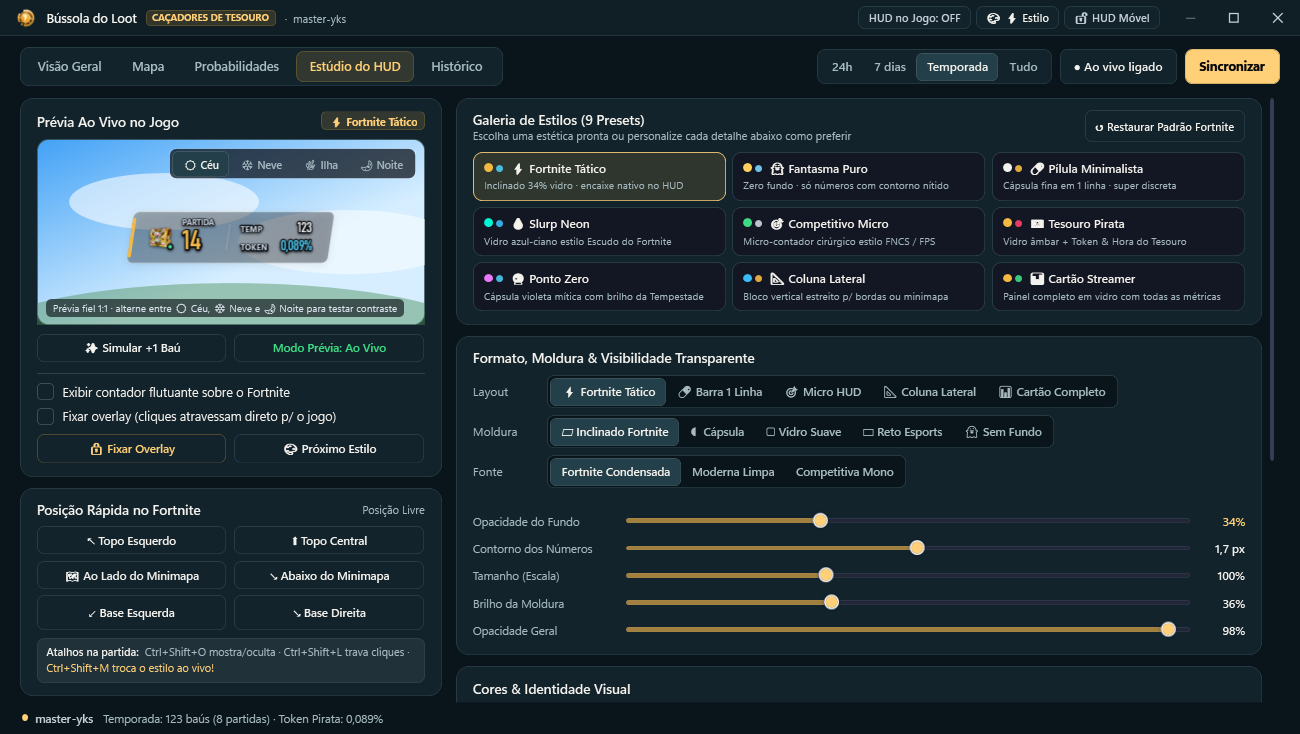
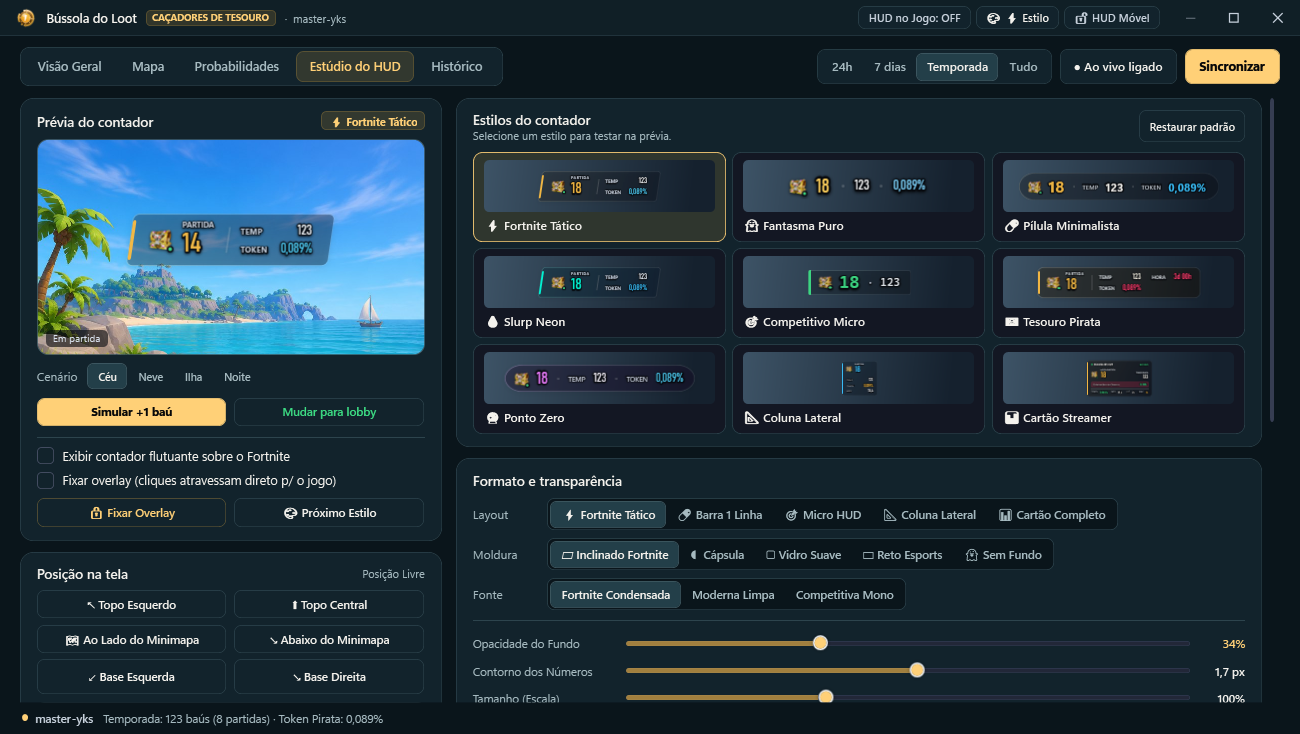
Mostra os estilos do HUD em miniatura e em quatro cenários 3D

diff --git a/src/ChestCounter.Gui/MainWindow.xaml b/src/ChestCounter.Gui/MainWindow.xaml
@@ -864,46 +864,41 @@
                                                 BorderThickness="1" CornerRadius="5" Padding="7,2" VerticalAlignment="Center">
                                             <TextBlock x:Name="OverlayActivePresetBadgeText" Text="⚡ Fortnite Tático" Foreground="{StaticResource Gold}" FontSize="10.5" FontWeight="Bold"/>
                                         </Border>
-                                        <TextBlock Text="Prévia Ao Vivo no Jogo" Style="{StaticResource SectionTitle}" VerticalAlignment="Center"/>
+                                        <TextBlock Text="Prévia do contador" Style="{StaticResource SectionTitle}" VerticalAlignment="Center"/>
                                     </DockPanel>
 
                                     <!-- Simulated Game Scene Viewport -->
-                                    <Border x:Name="PreviewViewportBorder" Height="186" CornerRadius="11" BorderBrush="{StaticResource StrokeLit}" BorderThickness="1" ClipToBounds="True">
+                                    <Border x:Name="PreviewViewportBorder" Height="216" CornerRadius="11" BorderBrush="{StaticResource StrokeLit}" BorderThickness="1" ClipToBounds="True">
                                         <Grid>
-                                            <Canvas x:Name="PreviewSceneCanvas" IsHitTestVisible="False" SizeChanged="PreviewSceneCanvas_SizeChanged"/>
-
-                                            <!-- Scene Selector Pills inside Top-Right of Viewport -->
-                                            <Border HorizontalAlignment="Right" VerticalAlignment="Top" Margin="8"
-                                                    Background="#B8080B12" BorderBrush="#38FFFFFF" BorderThickness="1" CornerRadius="7" Padding="2">
-                                                <StackPanel Orientation="Horizontal">
-                                                    <RadioButton x:Name="SceneSkyRadio" Style="{StaticResource Pill}" Content="☀ Céu" Tag="0" GroupName="bgscene" Padding="7,3" FontSize="10.5" IsChecked="True" Checked="PreviewBackdrop_Checked"
-                                                                 ToolTip="Testar visibilidade contra o céu azul claro do Fortnite"/>
-                                                    <RadioButton x:Name="SceneSnowRadio" Style="{StaticResource Pill}" Content="❄ Neve" Tag="1" GroupName="bgscene" Padding="7,3" FontSize="10.5" Checked="PreviewBackdrop_Checked"
-                                                                 ToolTip="Teste extremo de contraste em bioma branco de neve"/>
-                                                    <RadioButton x:Name="SceneIslandRadio" Style="{StaticResource Pill}" Content="🌿 Ilha" Tag="2" GroupName="bgscene" Padding="7,3" FontSize="10.5" Checked="PreviewBackdrop_Checked"
-                                                                 ToolTip="Terreno de combate verde e dourado"/>
-                                                    <RadioButton x:Name="SceneNightRadio" Style="{StaticResource Pill}" Content="🌙 Noite" Tag="3" GroupName="bgscene" Padding="7,3" FontSize="10.5" Checked="PreviewBackdrop_Checked"
-                                                                 ToolTip="Ambiente noturno / caverna escura"/>
-                                                </StackPanel>
-                                            </Border>
-
                                             <!-- Actual 1:1 Rendered OverlayHudView -->
-                                            <Viewbox StretchDirection="DownOnly" HorizontalAlignment="Center" VerticalAlignment="Center" Margin="14,34,14,24">
+                                            <Viewbox StretchDirection="DownOnly" HorizontalAlignment="Center" VerticalAlignment="Center" Margin="14,14,14,30">
                                                 <local:OverlayHudView x:Name="PreviewHudView"/>
                                             </Viewbox>
 
                                             <!-- Subtle Viewport Hint -->
                                             <Border HorizontalAlignment="Left" VerticalAlignment="Bottom" Margin="8,0,8,7"
                                                     Background="#9E07090F" CornerRadius="5" Padding="7,2" IsHitTestVisible="False">
-                                                <TextBlock x:Name="PreviewHintText" Text="Simulação real 1:1 · teste em Céu e Neve para conferir a leitura"
+                                                <TextBlock x:Name="PreviewHintText" Text="Simulação em partida"
                                                            Foreground="#DCE4F0" FontSize="10" TextTrimming="CharacterEllipsis"/>
                                             </Border>
                                         </Grid>
                                     </Border>
 
-                                    <!-- Simulation & Quick HUD Controls -->
+                                    <DockPanel Margin="0,8,0,0" LastChildFill="False">
+                                        <TextBlock Text="Cenário" Style="{StaticResource Label}" VerticalAlignment="Center" Margin="0,0,10,0"/>
+                                        <StackPanel Orientation="Horizontal">
+                                            <RadioButton x:Name="SceneSkyRadio" Style="{StaticResource Pill}" Content="Céu" Tag="0" GroupName="bgscene" Padding="7,3" FontSize="10.5" IsChecked="True" Checked="PreviewBackdrop_Checked"
+                                                         ToolTip="Testar visibilidade contra o céu azul claro do Fortnite"/>
+                                            <RadioButton x:Name="SceneSnowRadio" Style="{StaticResource Pill}" Content="Neve" Tag="1" GroupName="bgscene" Padding="7,3" FontSize="10.5" Checked="PreviewBackdrop_Checked"
+                                                         ToolTip="Teste extremo de contraste em bioma branco de neve"/>
+                                            <RadioButton x:Name="SceneIslandRadio" Style="{StaticResource Pill}" Content="Ilha" Tag="2" GroupName="bgscene" Padding="7,3" FontSize="10.5" Checked="PreviewBackdrop_Checked"
+                                                         ToolTip="Terreno de combate verde e dourado"/>
+                                            <RadioButton x:Name="SceneNightRadio" Style="{StaticResource Pill}" Content="Noite" Tag="3" GroupName="bgscene" Padding="7,3" FontSize="10.5" Checked="PreviewBackdrop_Checked"
+                                                         ToolTip="Ambiente noturno / caverna escura"/>
+                                        </StackPanel>
+                                    </DockPanel>
                                     <UniformGrid Columns="2" Margin="0,9,0,0">
-                                        <Button x:Name="PreviewSimPulseButton" Content="✨ Simular +1 Baú" Style="{StaticResource Quiet}" Margin="0,0,4,0" Padding="8,5.5" FontSize="11.5"
+                                        <Button x:Name="PreviewSimPulseButton" Content="Simular +1 baú" Style="{StaticResource Primary}" Margin="0,0,4,0" Padding="8,5.5" FontSize="11.5"
                                                 Click="PreviewSimPulseButton_Click"
                                                 ToolTip="Simula a abertura de um baú na partida para testar o contador ao vivo e a animação +1"/>
                                         <Button x:Name="PreviewToggleStateButton" Content="Modo Prévia: Ao Vivo" Style="{StaticResource Quiet}" Margin="4,0,0,0" Padding="8,5.5" FontSize="11.5"
@@ -932,7 +927,7 @@
                                 <StackPanel>
                                     <DockPanel Margin="0,0,0,8">
                                         <TextBlock x:Name="OverlayCoordsText" DockPanel.Dock="Right" Text="Posição livre" Style="{StaticResource Label}" FontSize="11" VerticalAlignment="Center"/>
-                                        <TextBlock Text="Posição Rápida no Fortnite" Style="{StaticResource SectionTitle}"/>
+                                        <TextBlock Text="Posição na tela" Style="{StaticResource SectionTitle}"/>
                                     </DockPanel>
 
                                     <UniformGrid Columns="2">
@@ -985,12 +980,12 @@
                             <Border Style="{StaticResource Panel}" Padding="16,12">
                                 <StackPanel>
                                     <DockPanel Margin="0,0,0,8">
-                                        <Button DockPanel.Dock="Right" Content="↺ Restaurar Padrão Fortnite" Style="{StaticResource Quiet}"
+                                        <Button DockPanel.Dock="Right" Content="Restaurar padrão" Style="{StaticResource Quiet}"
                                                 Padding="9,4" FontSize="11" Click="ResetDefaultOverlayStyle_Click"
                                                 ToolTip="Restaura o estilo padrão recomendado (Fortnite Tático Transparente)"/>
                                         <StackPanel>
-                                            <TextBlock Text="Galeria de Estilos (9 Presets)" Style="{StaticResource SectionTitle}"/>
-                                            <TextBlock Text="Escolha uma estética pronta ou personalize cada detalhe abaixo como preferir" Style="{StaticResource Label}" FontSize="11"/>
+                                            <TextBlock Text="Estilos do contador" Style="{StaticResource SectionTitle}"/>
+                                            <TextBlock Text="Selecione um estilo para testar na prévia." Style="{StaticResource Label}" FontSize="11"/>
                                         </StackPanel>
                                     </DockPanel>
 
@@ -1001,7 +996,7 @@
                             <!-- Section 2: Layout, Frame, Font & Transparency Sliders -->
                             <Border Style="{StaticResource Panel}" Margin="0,11,0,0" Padding="16,12">
                                 <StackPanel>
-                                    <TextBlock Text="Formato, Moldura &amp; Visibilidade Transparente" Style="{StaticResource SectionTitle}" Margin="0,0,0,9"/>
+                                    <TextBlock Text="Formato e transparência" Style="{StaticResource SectionTitle}" Margin="0,0,0,9"/>
 
                                     <!-- Layout Mode -->
                                     <Grid Margin="0,0,0,7">

diff --git a/src/ChestCounter.Gui/MainWindow.xaml.cs b/src/ChestCounter.Gui/MainWindow.xaml.cs
@@ -1118,47 +1118,26 @@ public partial class MainWindow : Window
         PresetCardsGrid.Children.Clear();
         _presetRadios.Clear();
 
+        var snapshot = BuildOverlayStatsSnapshot();
         foreach (var p in OverlayPresets.All)
         {
             var stack = new StackPanel();
-            var top = new StackPanel { Orientation = Orientation.Horizontal, VerticalAlignment = VerticalAlignment.Center };
-
-            var dot1 = new Border
+            var sample = new OverlayHudView { IsPreview = true, IsHitTestVisible = false };
+            sample.ApplySettings(p.Create());
+            sample.SetStats(snapshot);
+            sample.SetLive(18, allowPulse: false);
+            var tile = new Border
             {
-                Width = 9, Height = 9, CornerRadius = new CornerRadius(4.5),
-                Background = HexBrush(p.SwatchHex, ResBrush("Gold")),
-                Margin = new Thickness(0, 0, 3, 0),
+                Height = 52, Padding = new Thickness(6), CornerRadius = new CornerRadius(5),
+                Background = new LinearGradientBrush(Color.FromRgb(61, 83, 102), Color.FromRgb(21, 33, 46), 25),
+                Child = new Viewbox { Child = sample, StretchDirection = StretchDirection.DownOnly }
             };
-            var dot2 = new Border
+            stack.Children.Add(tile);
+            stack.Children.Add(new TextBlock
             {
-                Width = 7, Height = 7, CornerRadius = new CornerRadius(3.5),
-                Background = HexBrush(p.SecondaryHex, ResBrush("Cyan")),
-                Margin = new Thickness(0, 0, 6, 0),
-                Opacity = 0.9,
-            };
-            var title = new TextBlock
-            {
-                Text = p.Name,
-                Foreground = ResBrush("Text"),
-                FontSize = 11.8,
-                FontWeight = FontWeights.SemiBold,
-                TextTrimming = TextTrimming.CharacterEllipsis,
-            };
-            top.Children.Add(dot1);
-            top.Children.Add(dot2);
-            top.Children.Add(title);
-
-            var sub = new TextBlock
-            {
-                Text = p.Subtitle,
-                Foreground = ResBrush("Muted"),
-                FontSize = 10.2,
-                Margin = new Thickness(0, 2.5, 0, 0),
-                TextTrimming = TextTrimming.CharacterEllipsis,
-            };
-
-            stack.Children.Add(top);
-            stack.Children.Add(sub);
+                Text = p.Name, Foreground = ResBrush("Text"), FontWeight = FontWeights.SemiBold,
+                FontSize = 12, Margin = new Thickness(0, 5, 0, 0), TextTrimming = TextTrimming.CharacterEllipsis
+            });
 
             var rb = new RadioButton
             {
@@ -1168,6 +1147,7 @@ public partial class MainWindow : Window
                 Content = stack,
                 ToolTip = $"{p.Name}\n{p.Subtitle}",
             };
+            System.Windows.Automation.AutomationProperties.SetName(rb, p.Name);
             rb.Click += (_, _) => ApplyOverlayPresetInternal(p, persist: true);
 
             _presetRadios[p.Id] = rb;
@@ -1322,20 +1302,20 @@ public partial class MainWindow : Window
         if (PreviewHudView == null) return;
         PreviewHudView.ApplySettings(_overlay);
         PreviewHudView.SetStats(BuildOverlayStatsSnapshot());
-        int? simLive = _liveCount ?? (_previewSimLive ? _previewSimCount : null);
+        int? simLive = _previewSimLive ? _previewSimCount : null;
         PreviewHudView.SetLive(simLive, allowPulse);
 
         if (PreviewToggleStateButton != null)
         {
             bool isLiveShown = simLive != null;
-            PreviewToggleStateButton.Content = isLiveShown ? "Modo Prévia: Ao Vivo" : "Modo Prévia: Espera";
+            PreviewToggleStateButton.Content = isLiveShown ? "Mudar para lobby" : "Mudar para partida";
             PreviewToggleStateButton.Foreground = ResBrush(isLiveShown ? "Emerald" : "Steel");
         }
         if (PreviewHintText != null)
         {
             PreviewHintText.Text = (_overlay.HideWhenIdle && simLive == null)
-                ? "Ocultar no Lobby ativo: no jogo ficará 100% invisível até o 1º baú!"
-                : "Prévia fiel 1:1 · alterne entre ☀ Céu, ❄ Neve e 🌙 Noite para testar contraste";
+                ? "Lobby · contador oculto no jogo"
+                : simLive == null ? "Lobby · em espera" : "Em partida";
         }
     }
 
@@ -1376,72 +1356,19 @@ public partial class MainWindow : Window
         RebuildPreviewSceneBackdrop();
     }
 
-    private void PreviewSceneCanvas_SizeChanged(object sender, SizeChangedEventArgs e) =>
-        RebuildPreviewSceneBackdrop();
-
     private void RebuildPreviewSceneBackdrop()
     {
-        if (PreviewSceneCanvas == null || PreviewViewportBorder == null) return;
-        PreviewSceneCanvas.Children.Clear();
-        double w = PreviewSceneCanvas.ActualWidth;
-        double h = PreviewSceneCanvas.ActualHeight;
-        if (w <= 10 || h <= 10) return;
-
-        switch (_previewBackdropIndex)
+        if (PreviewViewportBorder == null) return;
+        string scene = _previewBackdropIndex switch { 1 => "snow", 2 => "island", 3 => "night", _ => "sky" };
+        if (Equals(PreviewViewportBorder.Tag, scene)) return;
+        var uri = new Uri($"pack://application:,,,/Assets/Studio/{scene}.jpg");
+        var background = new ImageBrush(new System.Windows.Media.Imaging.BitmapImage(uri))
         {
-            case 1: // Snow Biome (Extreme Bright White/Ice Legibility Test)
-            {
-                PreviewViewportBorder.Background = new LinearGradientBrush(
-                    Color.FromRgb(0xC9, 0xDF, 0xF7), Color.FromRgb(0xF9, 0xFC, 0xFF), new Point(0, 0), new Point(0.4, 1));
-                var ridge = new Ellipse { Width = w * 1.1, Height = h * 0.75, Fill = HexBrush("#FFFFFF", Brushes.White), Opacity = 0.85 };
-                Canvas.SetLeft(ridge, -w * 0.15);
-                Canvas.SetTop(ridge, h * 0.52);
-                PreviewSceneCanvas.Children.Add(ridge);
-                break;
-            }
-            case 2: // Combat / Island Greenery
-            {
-                PreviewViewportBorder.Background = new LinearGradientBrush(
-                    Color.FromRgb(0x4D, 0x92, 0xC8), Color.FromRgb(0x2B, 0x56, 0x3A), new Point(0, 0), new Point(0, 1));
-                var hill1 = new Ellipse { Width = w * 0.95, Height = h * 0.9, Fill = HexBrush("#366942", Brushes.Green), Opacity = 0.72 };
-                Canvas.SetLeft(hill1, -w * 0.12);
-                Canvas.SetTop(hill1, h * 0.44);
-                var hill2 = new Ellipse { Width = w * 0.85, Height = h * 0.85, Fill = HexBrush("#22442D", Brushes.DarkGreen), Opacity = 0.85 };
-                Canvas.SetLeft(hill2, w * 0.35);
-                Canvas.SetTop(hill2, h * 0.50);
-                PreviewSceneCanvas.Children.Add(hill1);
-                PreviewSceneCanvas.Children.Add(hill2);
-                break;
-            }
-            case 3: // Night / Storm Interior
-            {
-                PreviewViewportBorder.Background = new LinearGradientBrush(
-                    Color.FromRgb(0x0B, 0x0F, 0x1D), Color.FromRgb(0x1D, 0x11, 0x30), new Point(0, 0), new Point(1, 1));
-                var glow = new Ellipse { Width = 240, Height = 160, Fill = HexBrush("#28A855F7", Brushes.Purple) };
-                Canvas.SetLeft(glow, w * 0.52);
-                Canvas.SetTop(glow, -20);
-                PreviewSceneCanvas.Children.Add(glow);
-                break;
-            }
-            default: // Bright Fortnite Day Sky
-            {
-                PreviewViewportBorder.Background = new LinearGradientBrush(
-                    Color.FromRgb(0x43, 0xA2, 0xF6), Color.FromRgb(0xD6, 0xEE, 0xFF), new Point(0, 0), new Point(0.2, 1));
-                var cloud1 = new Ellipse { Width = 190, Height = 58, Fill = Brushes.White, Opacity = 0.58 };
-                Canvas.SetLeft(cloud1, w * 0.08);
-                Canvas.SetTop(cloud1, h * 0.18);
-                var cloud2 = new Ellipse { Width = 220, Height = 64, Fill = Brushes.White, Opacity = 0.52 };
-                Canvas.SetLeft(cloud2, w * 0.52);
-                Canvas.SetTop(cloud2, h * 0.38);
-                var horizon = new Ellipse { Width = w * 1.3, Height = h * 0.6, Fill = HexBrush("#4C8E58", Brushes.Green), Opacity = 0.45 };
-                Canvas.SetLeft(horizon, -w * 0.15);
-                Canvas.SetTop(horizon, h * 0.78);
-                PreviewSceneCanvas.Children.Add(cloud1);
-                PreviewSceneCanvas.Children.Add(cloud2);
-                PreviewSceneCanvas.Children.Add(horizon);
-                break;
-            }
-        }
+            Stretch = Stretch.UniformToFill
+        };
+        background.Freeze();
+        PreviewViewportBorder.Background = background;
+        PreviewViewportBorder.Tag = scene;
     }
 
     private void HudLayout_Checked(object sender, RoutedEventArgs e)

diff --git a/README.md b/README.md
@@ -25,7 +25,7 @@ Abra **Mapa → Planejar rota**, escolha **Sugerir percurso de baús** e clique 
 
 ## Mostrar o contador na transmissão
 
-No OBS ou Streamlabs, adicione uma **Fonte de navegador** com a URL `http://localhost:7777/` e mantenha a Bússola aberta no mesmo computador. Na aba **Estúdio do HUD**, escolha o visual e confira a legibilidade antes de transmitir.
+No OBS ou Streamlabs, adicione uma **Fonte de navegador** com a URL `http://localhost:7777/` e mantenha a Bússola aberta no mesmo computador. Na aba **Estúdio do HUD**, compare os nove estilos pelas miniaturas. Alterne entre céu, neve, ilha e noite, simule a abertura de um baú e confira se o contador continua legível.
 
 | Atalho no Windows | Ação |
 | --- | --- |
@@ -33,7 +33,7 @@ No OBS ou Streamlabs, adicione uma **Fonte de navegador** com a URL `http://loca
 | Ctrl + Shift + L | Travar ou liberar a posição do HUD |
 | Ctrl + Shift + M | Alternar o estilo |
 
-![Prévia do contador sobre fundo claro no estúdio de overlay](docs/imagens/overlay.png)
+![Galeria de estilos e prévia do contador sobre o cenário de céu no Estúdio do HUD](docs/imagens/overlay.png)
 
 ## Dados e solução de problemas
 
